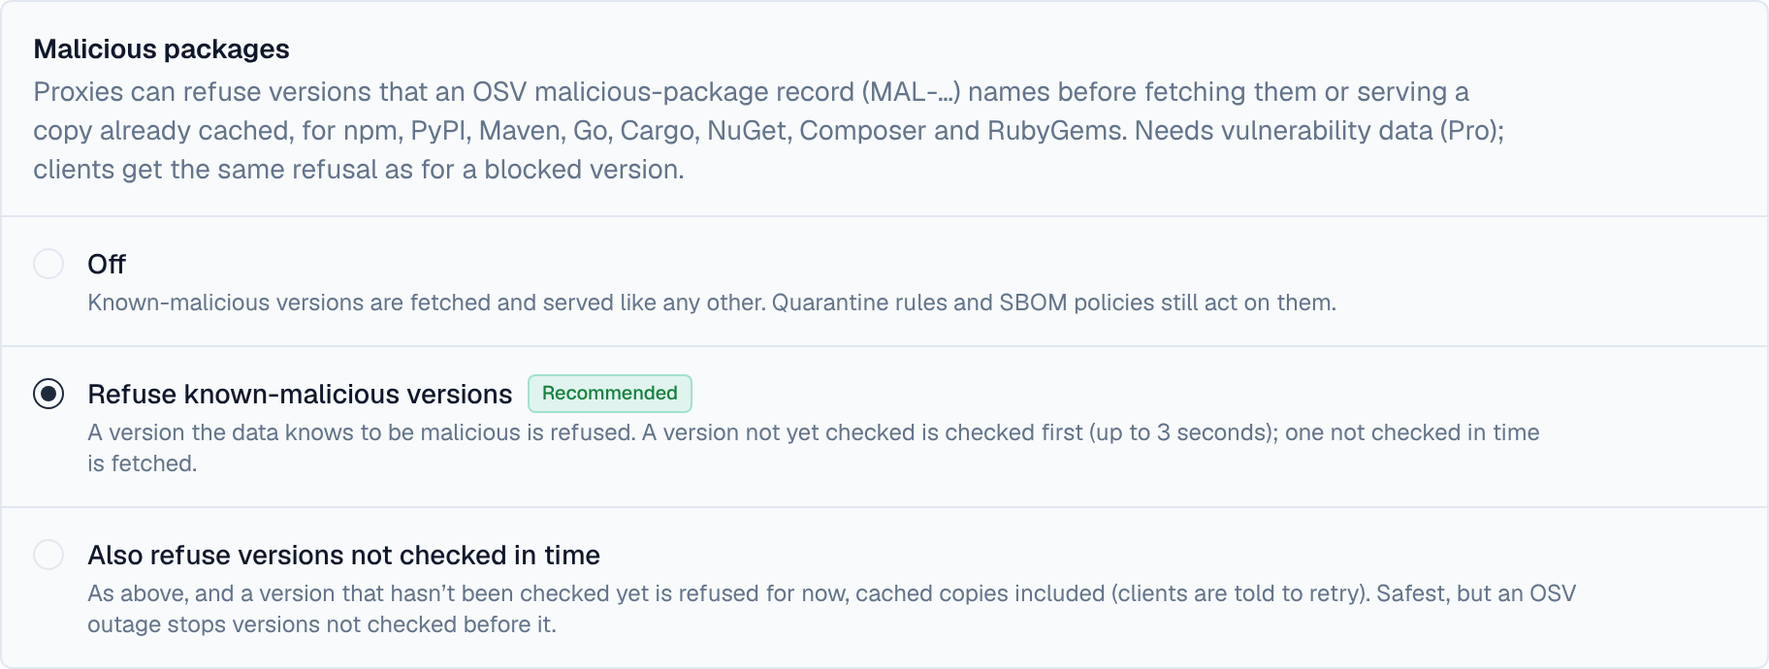
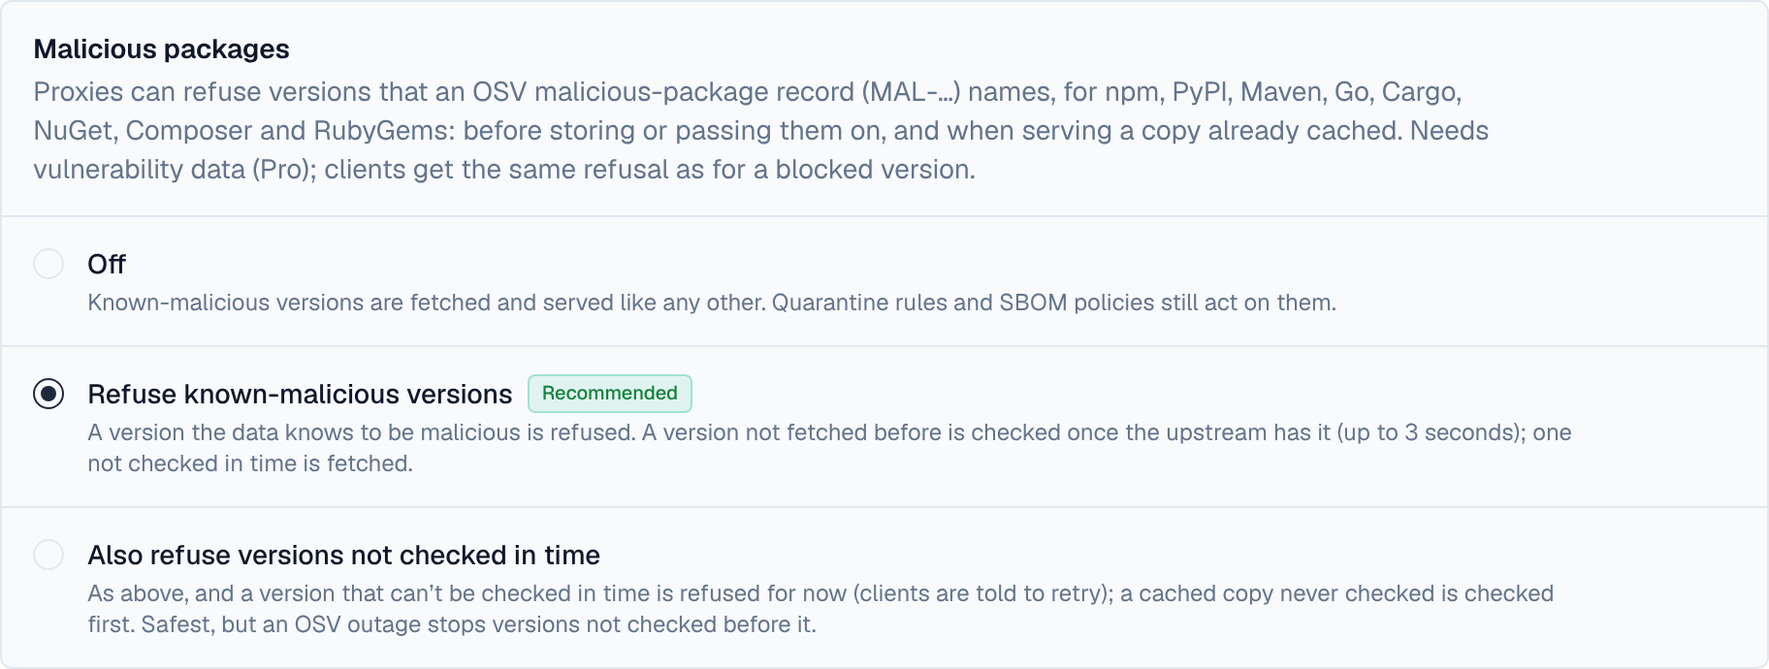
Depotex: known-malicious check after the upstream answers, malware holds without an end, releases of older matches
The SBOM page says a version already known to be malicious is refused
before the upstream is asked and one not fetched before is checked once
the upstream has it; strict mode asks osv.dev again only every 30 seconds
while it doesn't answer; a release counts as informed when Depotex showed
the version as known malicious; a record is also found by a check that
couldn't reach the source. The quarantine page says an age rule holds a
known-malicious version until someone releases it. vuln-settings-malicious.png
retaken with the new hints.

Claude-Session: https://claude.ai/code/session_01Sm7vZhvVkMFvFu7FBLwMY9

diff --git a/depotex/docs/sbom.html b/depotex/docs/sbom.html
@@ -295,7 +295,7 @@ curl -f -X POST -H &quot;Authorization: Bearer $DEPOTEX_TOKEN&quot; \
       <ul class="text-muted mb-4 space-y-2 list-disc pl-6"><li>Turn it on under <strong class="text-text">Settings → Vulnerability data</strong> (super admins). Only package names and versions are sent; nothing about your repositories, users or files. Without a Pro license it can still be turned off.</li><li>Each distinct package version is asked about once, then again after the re-check interval (24 hours by default), so new advisories are found for what you already have. The check runs every few minutes as the job <span class="font-mono text-sm break-words">sbom-vuln-sync</span>; <strong class="text-text">Test</strong> on the settings page asks the endpoint about a known vulnerable package.</li><li>With the <strong class="text-text">OSV API</strong> source and a network that can't reach osv.dev, point the endpoint at a mirror of the OSV API inside your network.</li><li>Severity is the CVSS v3 base score when the advisory has a v3 vector (critical from 9.0, high from 7.0, medium from 4.0), otherwise the advisory database's own rating. A malicious-package record usually has neither, so its severity is unknown; it is marked <strong class="text-text">Known malicious</strong> instead, apart from severity, and listed first (<a href="#malicious-packages" class="text-cta hover:underline">malicious packages</a>).</li><li>Unknown is unknown: a component without a package URL, one not checked yet, or one no vulnerability data covers is reported as such, never as clean. Each report says how many components were checked, how many still wait and how many are not covered. Until something is found, the <strong class="text-text">Vulnerabilities</strong> view says why the list is empty: checks need a Pro licence, are switched off, or are paused in the scheduler; components are waiting for the next check (with its time; the page updates by itself); or everything was checked and nothing is known.</li><li>If the endpoint can't be reached, what was found stays as it was; the settings page shows the error.</li></ul>
       <h2 id="malicious-packages" class="text-2xl font-semibold mt-10 mb-4 scroll-mt-28">18. Malicious packages</h2>
       <p class="text-muted mb-4">Some package versions are published to attack whoever installs them: typosquats, hijacked maintainer accounts, install scripts that steal credentials. OSV lists them as malicious-package records (<span class="font-mono text-sm break-words">MAL-…</span>). With vulnerability data on, proxy repositories of npm, PyPI, Maven, Go, Cargo, NuGet, Composer and RubyGems (pass-through ones too) can refuse such a version before fetching it and before serving a copy they already store. Choose under <strong class="text-text">Settings → Vulnerability data → Malicious packages</strong> (Pro):</p>
-      <div class="tbl-wrap"><table><thead><tr><th>Setting</th><th>What happens</th></tr></thead><tbody><tr><td><strong class="text-text">Off</strong></td><td>Known-malicious versions are fetched and served like any other. Quarantine rules and SBOM policies still act on them.</td></tr><tr><td><strong class="text-text">Refuse known-malicious versions</strong> (default)</td><td>A version the data knows to be malicious is refused with <span class="font-mono text-sm break-words">403</span> and the reason <span class="font-mono text-sm break-words">blocked</span> (rule <span class="font-mono text-sm break-words">known-malicious</span>, naming the records), like a version on the block list. A version not fetched before is checked first (up to 3 seconds); one not checked in time is fetched, and its stored copy is served until the next check of stored versions finds it.</td></tr><tr><td><strong class="text-text">Also refuse versions not checked in time</strong></td><td>As above, and a version that can't be checked in time is refused for now with <span class="font-mono text-sm break-words">503</span> <span class="font-mono text-sm break-words">malicious_check_pending</span> and <span class="font-mono text-sm break-words">Retry-After: 30</span>, so the client tries again. A stored copy whose version was never checked (stored before vulnerability data was on, or after <strong class="text-text">Rescan</strong>, a change of source or an offline import cleared the checks) is checked first like a new one. Safest, but an osv.dev outage stops versions that weren't checked before it.</td></tr></tbody></table></div>
+      <div class="tbl-wrap"><table><thead><tr><th>Setting</th><th>What happens</th></tr></thead><tbody><tr><td><strong class="text-text">Off</strong></td><td>Known-malicious versions are fetched and served like any other. Quarantine rules and SBOM policies still act on them.</td></tr><tr><td><strong class="text-text">Refuse known-malicious versions</strong> (default)</td><td>A version the data knows to be malicious is refused with <span class="font-mono text-sm break-words">403</span> and the reason <span class="font-mono text-sm break-words">blocked</span> (rule <span class="font-mono text-sm break-words">known-malicious</span>, naming the records), like a version on the block list. A version already known to be malicious is refused before the upstream is asked. A version not fetched before is checked once the upstream has it, before it is stored or passed on (up to 3 seconds), so a request for a version that doesn't exist checks nothing; one not checked in time is fetched, and its stored copy is served until the next check of stored versions finds it.</td></tr><tr><td><strong class="text-text">Also refuse versions not checked in time</strong></td><td>As above, and a version that can't be checked in time is refused for now with <span class="font-mono text-sm break-words">503</span> <span class="font-mono text-sm break-words">malicious_check_pending</span> and <span class="font-mono text-sm break-words">Retry-After: 30</span>, so the client tries again. A stored copy whose version was never checked (stored before vulnerability data was on, or after <strong class="text-text">Rescan</strong>, a change of source or an offline import cleared the checks) is checked first like a new one. While osv.dev doesn't answer, each server asks it again only every 30 seconds and refuses the others at once instead of making each download wait. Safest, but an osv.dev outage stops versions that weren't checked before it.</td></tr></tbody></table></div>
       <figure class="shot mb-6">
         <img src="../assets/vuln-settings-malicious.png" alt="Settings → Vulnerability data: the Malicious packages setting" loading="lazy"
              class="rounded-lg border border-border"
@@ -308,7 +308,7 @@ curl -f -X POST -H &quot;Authorization: Bearer $DEPOTEX_TOKEN&quot; \
         </div>
         <figcaption class="text-xs text-muted mt-2">Settings → Vulnerability data: the Malicious packages setting</figcaption>
       </figure>
-      <ul class="text-muted mb-4 space-y-2 list-disc pl-6"><li>A version someone released from quarantine after the record was known (from a quarantine that named the record, or after the record arrived) is served again in that repository, stored or not: the release is a person's decision. A version released automatically (once its check came back clean, or when an age rule's time ran out), or released before the record arrived, is still refused, and <a href="quarantine.html#vulnerable-versions" class="text-cta hover:underline">vulnerable-version rules</a> quarantine it again at the next check.</li><li>A Depotex linked to this one withdraws its stored copy of a known-malicious version at its next check of linked copies, as for a blocked one.</li><li>If the vulnerability data can't be read (the database is unavailable), the download is refused with <span class="font-mono text-sm break-words">503</span> <span class="font-mono text-sm break-words">malicious_check_unavailable</span> rather than served unchecked.</li><li>Both <span class="font-mono text-sm break-words">503</span> answers carry the reason in the <span class="font-mono text-sm break-words">X-Depotex-Status</span> header. A Depotex linked to this one passes them on to its own clients instead of treating this server as down; a repository group answers them instead of trying its next member.</li><li>Promoting a proxy's version that is known malicious is refused with <span class="font-mono text-sm break-words">422</span> <span class="font-mono text-sm break-words">promote_malicious</span>.</li><li>Each refusal raises the <span class="font-mono text-sm break-words">sbom.malicious.refused</span> <a href="events.html" class="text-cta hover:underline">event</a>, at most once per version and server every 10 minutes.</li><li>A record that arrives after a version was stored is found at the next check, and <a href="quarantine.html#vulnerable-versions" class="text-cta hover:underline">vulnerable-version quarantine rules</a> quarantine the stored version at once.</li><li>Only a version's own package is checked when it is downloaded; a malicious dependency inside it is found through its SBOM (the <strong class="text-text">Refuse known malicious packages</strong> policy template). GitHub malware advisories without a <span class="font-mono text-sm break-words">MAL-</span> alias aren't marked. Listings still name malicious versions unless a quarantine rule hides them: the download is what is refused.</li><li>Covered: proxies of npm, PyPI, Maven, Go, Cargo, NuGet, Composer and RubyGems, for ecosystems OSV covers. Conda, Conan, Docker, Helm, generic and the other formats aren't checked. Hosted repositories aren't checked at download; a <a href="quarantine.html#vulnerable-versions" class="text-cta hover:underline">vulnerable-version rule</a> that includes hosted repositories holds their malicious versions.</li><li>A new record is noticed at the next refresh of OSV's data files (or the next upload of them); with the <strong class="text-text">OSV API</strong> source, a version checked clean is asked again after the re-check interval (24 hours by default). Malicious-package records are part of OSV's data files (the <strong class="text-text">Mirror</strong> and <strong class="text-text">Upload</strong> sources); with the <strong class="text-text">OSV API</strong> source, a version is refused only when the API lists the record for it.</li><li>A record withdrawn later (a false positive) stops the refusals by itself; versions it caused to be quarantined stay quarantined until someone releases them, and the <span class="font-mono text-sm break-words">sbom.vulnerability.resolved</span> <a href="events.html" class="text-cta hover:underline">event</a> says it no longer applies.</li></ul>
+      <ul class="text-muted mb-4 space-y-2 list-disc pl-6"><li>A version someone released from quarantine after the record was known (from a quarantine that named the record, after the record arrived, or while Depotex showed it as known malicious) is served again in that repository, stored or not: the release is a person's decision. A version released automatically (once its check came back clean, or when an age rule's time ran out), or released before the record arrived, is still refused, and <a href="quarantine.html#vulnerable-versions" class="text-cta hover:underline">vulnerable-version rules</a> quarantine it again at the next check.</li><li>A Depotex linked to this one withdraws its stored copy of a known-malicious version at its next check of linked copies, as for a blocked one.</li><li>If the vulnerability data can't be read (the database is unavailable), the download is refused with <span class="font-mono text-sm break-words">503</span> <span class="font-mono text-sm break-words">malicious_check_unavailable</span> rather than served unchecked.</li><li>Both <span class="font-mono text-sm break-words">503</span> answers carry the reason in the <span class="font-mono text-sm break-words">X-Depotex-Status</span> header. A Depotex linked to this one passes them on to its own clients instead of treating this server as down; a repository group answers them instead of trying its next member.</li><li>Promoting a proxy's version that is known malicious is refused with <span class="font-mono text-sm break-words">422</span> <span class="font-mono text-sm break-words">promote_malicious</span>.</li><li>Each refusal raises the <span class="font-mono text-sm break-words">sbom.malicious.refused</span> <a href="events.html" class="text-cta hover:underline">event</a>, at most once per version and server every 10 minutes.</li><li>A record that arrives after a version was stored is found at the next check (also when that check couldn't reach the advisory source), and <a href="quarantine.html#vulnerable-versions" class="text-cta hover:underline">vulnerable-version quarantine rules</a> quarantine the stored version at once.</li><li>Only a version's own package is checked when it is downloaded; a malicious dependency inside it is found through its SBOM (the <strong class="text-text">Refuse known malicious packages</strong> policy template). GitHub malware advisories without a <span class="font-mono text-sm break-words">MAL-</span> alias aren't marked. Listings still name malicious versions unless a quarantine rule hides them: the download is what is refused.</li><li>Covered: proxies of npm, PyPI, Maven, Go, Cargo, NuGet, Composer and RubyGems, for ecosystems OSV covers. Conda, Conan, Docker, Helm, generic and the other formats aren't checked. Hosted repositories aren't checked at download; a <a href="quarantine.html#vulnerable-versions" class="text-cta hover:underline">vulnerable-version rule</a> that includes hosted repositories holds their malicious versions.</li><li>A new record is noticed at the next refresh of OSV's data files (or the next upload of them); with the <strong class="text-text">OSV API</strong> source, a version checked clean is asked again after the re-check interval (24 hours by default). Malicious-package records are part of OSV's data files (the <strong class="text-text">Mirror</strong> and <strong class="text-text">Upload</strong> sources); with the <strong class="text-text">OSV API</strong> source, a version is refused only when the API lists the record for it.</li><li>A record withdrawn later (a false positive) stops the refusals by itself; versions it caused to be quarantined stay quarantined until someone releases them, and the <span class="font-mono text-sm break-words">sbom.vulnerability.resolved</span> <a href="events.html" class="text-cta hover:underline">event</a> says it no longer applies.</li></ul>
       <h2 id="scanner-plugins" class="text-2xl font-semibold mt-10 mb-4 scroll-mt-28">19. Scanner plugins</h2>
       <p class="text-muted mb-4"><a href="../admin/plugins.html#scanner-plugins" class="text-cta hover:underline">Plugins</a> can check components too, for example against a commercial vulnerability database. Each active scanner plugin is asked about every component on the same schedule, and what it finds is shown with the rest. Needs <strong class="text-text">Pro</strong>.</p>
       <figure class="shot mb-6">

diff --git a/depotex/docs/quarantine.html b/depotex/docs/quarantine.html
@@ -85,7 +85,7 @@
       <p class="text-muted mb-4">A download of a held version is refused with the advisories it matched and the version that fixes them, for example <span class="font-mono text-sm break-words">Known vulnerabilities (GHSA-1234, GHSA-5678; fixed in 4.17.21)</span>, or with a note that it hasn't been checked yet, so the package manager's error says what to upgrade to.</p>
       <h2 id="after-a-version-is-stored" class="text-2xl font-semibold mt-10 mb-4 scroll-mt-28">5. After a version is stored</h2>
       <p class="text-muted mb-4">While a rule with a vulnerability condition is on, Depotex keeps checking the versions repositories already store against the vulnerability data, on its usual re-check schedule:</p>
-      <ul class="text-muted mb-4 space-y-2 list-disc pl-6"><li>A version held because it <strong class="text-text">couldn't be checked yet</strong> is settled within about a minute of being checked: released if nothing qualifies (the release shows as <strong class="text-text">checked</strong>), or kept with the advisories and the fixed version if something does. If its rule is deleted meanwhile, it stays quarantined until someone releases it.</li><li>When <strong class="text-text">new advisories</strong> name a version that is stored and was never quarantined or released, the rules judge it again, and what happens follows the <a href="sbom.html#when-a-re-check-breaks-a-policy" class="text-cta hover:underline">re-check setting</a> under <strong class="text-text">Settings → Vulnerability data</strong>: <strong class="text-text">Alert only</strong> (the default) leaves it available, <strong class="text-text">Quarantine after a grace period</strong> quarantines it at once (no grace days) or when the grace period ends if it still qualifies then. A version someone released keeps its state.</li><li>A version found to be a <strong class="text-text">known-malicious package</strong> is quarantined at once, whatever the re-check setting and grace period, by every rule with <strong class="text-text">Always hold known-malicious packages</strong> on; this includes versions stored before the record existed, found at the next check. A version someone released after the record was known stays released; one released automatically (checked clean, or its age rule's time up), or released before the record arrived, is quarantined again.</li><li>Each such finding raises the <span class="font-mono text-sm break-words">quarantine.vulnerability.found</span> <a href="events.html" class="text-cta hover:underline">event</a>, so automation can notify people or open a ticket.</li></ul>
+      <ul class="text-muted mb-4 space-y-2 list-disc pl-6"><li>A version held because it <strong class="text-text">couldn't be checked yet</strong> is settled within about a minute of being checked: released if nothing qualifies (the release shows as <strong class="text-text">checked</strong>), or kept with the advisories and the fixed version if something does. If its rule is deleted meanwhile, it stays quarantined until someone releases it.</li><li>When <strong class="text-text">new advisories</strong> name a version that is stored and was never quarantined or released, the rules judge it again, and what happens follows the <a href="sbom.html#when-a-re-check-breaks-a-policy" class="text-cta hover:underline">re-check setting</a> under <strong class="text-text">Settings → Vulnerability data</strong>: <strong class="text-text">Alert only</strong> (the default) leaves it available, <strong class="text-text">Quarantine after a grace period</strong> quarantines it at once (no grace days) or when the grace period ends if it still qualifies then. A version someone released keeps its state.</li><li>A version found to be a <strong class="text-text">known-malicious package</strong> is quarantined at once, whatever the re-check setting and grace period, by every rule with <strong class="text-text">Always hold known-malicious packages</strong> on; this includes versions stored before the record existed, found at the next check. A version someone released after the record was known stays released; one released automatically (checked clean, or its age rule's time up), or released before the record arrived, is quarantined again. A rule that also has an age (<strong class="text-text">Published less than</strong>) holds a known-malicious version until someone releases it, not only until the age is reached.</li><li>Each such finding raises the <span class="font-mono text-sm break-words">quarantine.vulnerability.found</span> <a href="events.html" class="text-cta hover:underline">event</a>, so automation can notify people or open a ticket.</li></ul>
       <div class="rounded-xl border border-border bg-surface/90 p-4 mb-6"><p class="text-sm text-muted">A rule doesn't sweep the versions already stored when you create it: they are judged when new advisories name them. Known-malicious versions are the exception: they are quarantined at the next check.</p></div>
       <h2 id="quarantined-versions" class="text-2xl font-semibold mt-10 mb-4 scroll-mt-28">6. Quarantined versions</h2>
       <p class="text-muted mb-4">The space's <strong class="text-text">Quarantine</strong> tab lists its quarantined versions, newest first, and <strong class="text-text">Settings → Repositories → Quarantine</strong> lists every space's. Show the versions held, released or all, and search by name, version or repository (on the installation-wide list, also by space). Select several to release them together. A version's name opens it in the <a href="browse.html" class="text-cta hover:underline">artifact browser</a>, where its Security tab says what was found; its repository opens the repository.</p>

diff --git a/depotex/_build/content_sbom.py b/depotex/_build/content_sbom.py
@@ -204,18 +204,18 @@ curl -f -X POST -H "Authorization: Bearer $DEPOTEX_TOKEN" \\
             P("Some package versions are published to attack whoever installs them: typosquats, hijacked maintainer accounts, install scripts that steal credentials. OSV lists them as malicious-package records (`MAL-…`). With vulnerability data on, proxy repositories of npm, PyPI, Maven, Go, Cargo, NuGet, Composer and RubyGems (pass-through ones too) can refuse such a version before fetching it and before serving a copy they already store. Choose under **Settings → Vulnerability data → Malicious packages** (Pro):"),
             TABLE(["Setting", "What happens"], [
                 ["**Off**", "Known-malicious versions are fetched and served like any other. Quarantine rules and SBOM policies still act on them."],
-                ["**Refuse known-malicious versions** (default)", "A version the data knows to be malicious is refused with `403` and the reason `blocked` (rule `known-malicious`, naming the records), like a version on the block list. A version not fetched before is checked first (up to 3 seconds); one not checked in time is fetched, and its stored copy is served until the next check of stored versions finds it."],
-                ["**Also refuse versions not checked in time**", "As above, and a version that can't be checked in time is refused for now with `503` `malicious_check_pending` and `Retry-After: 30`, so the client tries again. A stored copy whose version was never checked (stored before vulnerability data was on, or after **Rescan**, a change of source or an offline import cleared the checks) is checked first like a new one. Safest, but an osv.dev outage stops versions that weren't checked before it."],
+                ["**Refuse known-malicious versions** (default)", "A version the data knows to be malicious is refused with `403` and the reason `blocked` (rule `known-malicious`, naming the records), like a version on the block list. A version already known to be malicious is refused before the upstream is asked. A version not fetched before is checked once the upstream has it, before it is stored or passed on (up to 3 seconds), so a request for a version that doesn't exist checks nothing; one not checked in time is fetched, and its stored copy is served until the next check of stored versions finds it."],
+                ["**Also refuse versions not checked in time**", "As above, and a version that can't be checked in time is refused for now with `503` `malicious_check_pending` and `Retry-After: 30`, so the client tries again. A stored copy whose version was never checked (stored before vulnerability data was on, or after **Rescan**, a change of source or an offline import cleared the checks) is checked first like a new one. While osv.dev doesn't answer, each server asks it again only every 30 seconds and refuses the others at once instead of making each download wait. Safest, but an osv.dev outage stops versions that weren't checked before it."],
             ]),
             SHOT("vuln-settings-malicious.png", "Settings → Vulnerability data: the Malicious packages setting"),
             UL([
-                "A version someone released from quarantine after the record was known (from a quarantine that named the record, or after the record arrived) is served again in that repository, stored or not: the release is a person's decision. A version released automatically (once its check came back clean, or when an age rule's time ran out), or released before the record arrived, is still refused, and [vulnerable-version rules](quarantine.html#vulnerable-versions) quarantine it again at the next check.",
+                "A version someone released from quarantine after the record was known (from a quarantine that named the record, after the record arrived, or while Depotex showed it as known malicious) is served again in that repository, stored or not: the release is a person's decision. A version released automatically (once its check came back clean, or when an age rule's time ran out), or released before the record arrived, is still refused, and [vulnerable-version rules](quarantine.html#vulnerable-versions) quarantine it again at the next check.",
                 "A Depotex linked to this one withdraws its stored copy of a known-malicious version at its next check of linked copies, as for a blocked one.",
                 "If the vulnerability data can't be read (the database is unavailable), the download is refused with `503` `malicious_check_unavailable` rather than served unchecked.",
                 "Both `503` answers carry the reason in the `X-Depotex-Status` header. A Depotex linked to this one passes them on to its own clients instead of treating this server as down; a repository group answers them instead of trying its next member.",
                 "Promoting a proxy's version that is known malicious is refused with `422` `promote_malicious`.",
                 "Each refusal raises the `sbom.malicious.refused` [event](events.html), at most once per version and server every 10 minutes.",
-                "A record that arrives after a version was stored is found at the next check, and [vulnerable-version quarantine rules](quarantine.html#vulnerable-versions) quarantine the stored version at once.",
+                "A record that arrives after a version was stored is found at the next check (also when that check couldn't reach the advisory source), and [vulnerable-version quarantine rules](quarantine.html#vulnerable-versions) quarantine the stored version at once.",
                 "Only a version's own package is checked when it is downloaded; a malicious dependency inside it is found through its SBOM (the **Refuse known malicious packages** policy template). GitHub malware advisories without a `MAL-` alias aren't marked. Listings still name malicious versions unless a quarantine rule hides them: the download is what is refused.",
                 "Covered: proxies of npm, PyPI, Maven, Go, Cargo, NuGet, Composer and RubyGems, for ecosystems OSV covers. Conda, Conan, Docker, Helm, generic and the other formats aren't checked. Hosted repositories aren't checked at download; a [vulnerable-version rule](quarantine.html#vulnerable-versions) that includes hosted repositories holds their malicious versions.",
                 "A new record is noticed at the next refresh of OSV's data files (or the next upload of them); with the **OSV API** source, a version checked clean is asked again after the re-check interval (24 hours by default). Malicious-package records are part of OSV's data files (the **Mirror** and **Upload** sources); with the **OSV API** source, a version is refused only when the API lists the record for it.",

diff --git a/depotex/_build/content_quarantine.py b/depotex/_build/content_quarantine.py
@@ -70,7 +70,7 @@ QUARANTINE = [
             UL([
                 "A version held because it **couldn't be checked yet** is settled within about a minute of being checked: released if nothing qualifies (the release shows as **checked**), or kept with the advisories and the fixed version if something does. If its rule is deleted meanwhile, it stays quarantined until someone releases it.",
                 "When **new advisories** name a version that is stored and was never quarantined or released, the rules judge it again, and what happens follows the [re-check setting](sbom.html#when-a-re-check-breaks-a-policy) under **Settings → Vulnerability data**: **Alert only** (the default) leaves it available, **Quarantine after a grace period** quarantines it at once (no grace days) or when the grace period ends if it still qualifies then. A version someone released keeps its state.",
-                "A version found to be a **known-malicious package** is quarantined at once, whatever the re-check setting and grace period, by every rule with **Always hold known-malicious packages** on; this includes versions stored before the record existed, found at the next check. A version someone released after the record was known stays released; one released automatically (checked clean, or its age rule's time up), or released before the record arrived, is quarantined again.",
+                "A version found to be a **known-malicious package** is quarantined at once, whatever the re-check setting and grace period, by every rule with **Always hold known-malicious packages** on; this includes versions stored before the record existed, found at the next check. A version someone released after the record was known stays released; one released automatically (checked clean, or its age rule's time up), or released before the record arrived, is quarantined again. A rule that also has an age (**Published less than**) holds a known-malicious version until someone releases it, not only until the age is reached.",
                 "Each such finding raises the `quarantine.vulnerability.found` [event](events.html), so automation can notify people or open a ticket.",
             ]),
             NOTE("A rule doesn't sweep the versions already stored when you create it: they are judged when new advisories name them. Known-malicious versions are the exception: they are quarantined at the next check."),
